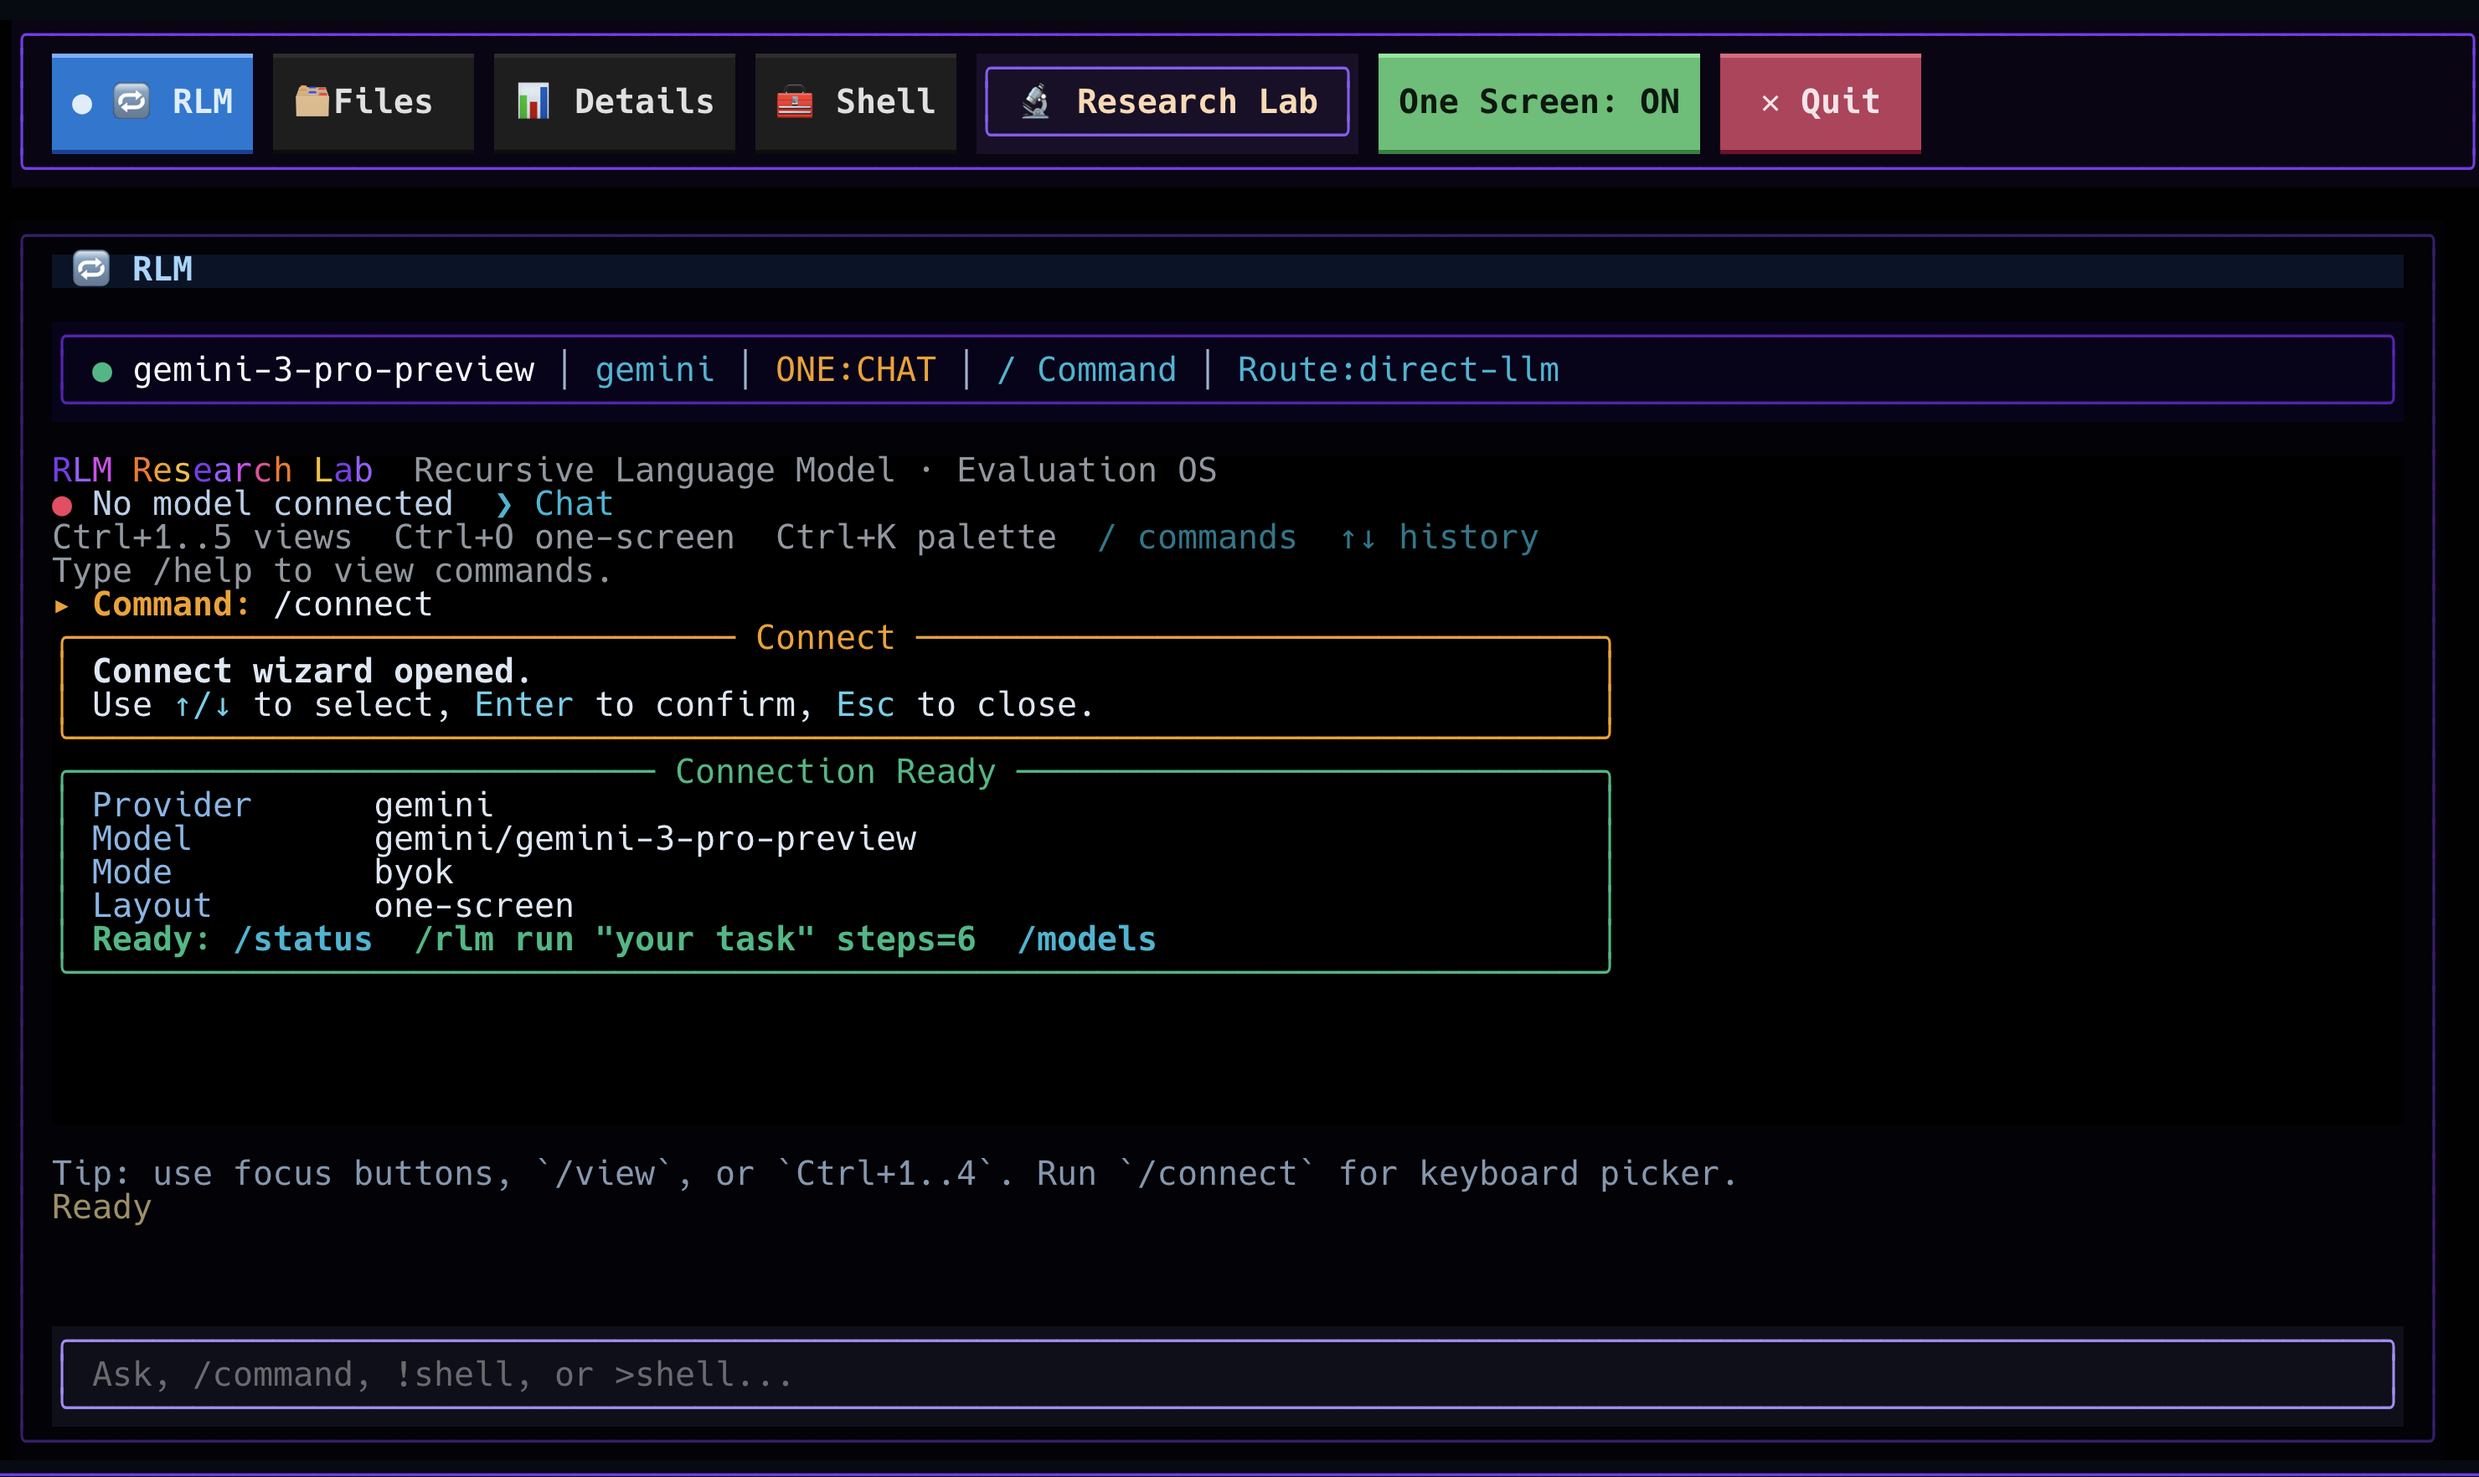
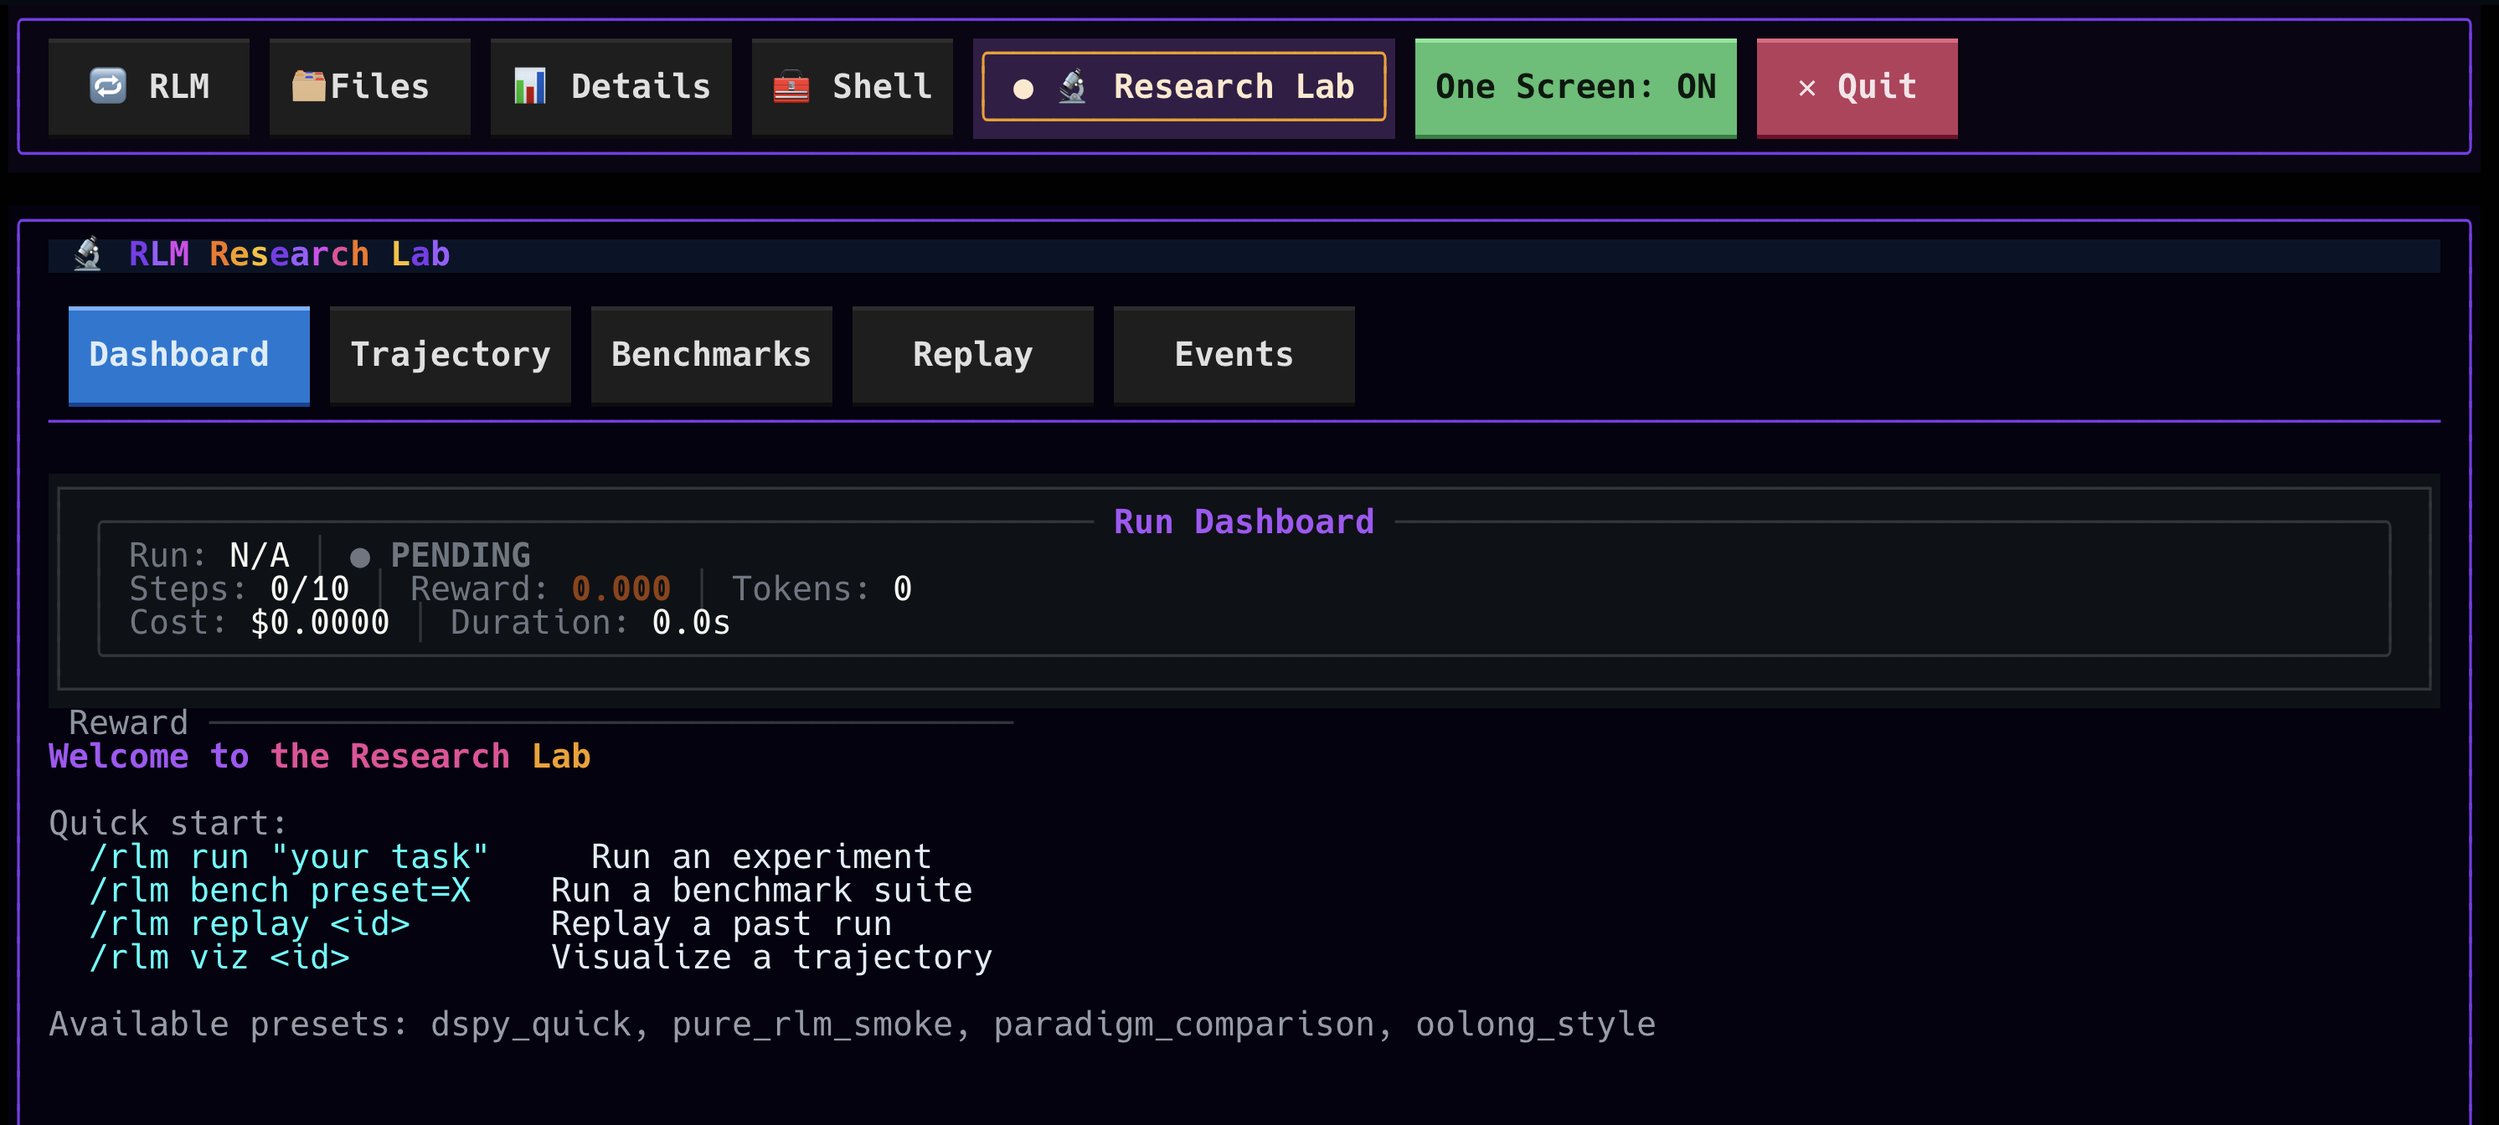
Update the test and hero image

diff --git a/rlm_code/ui/persistent_shell.py b/rlm_code/ui/persistent_shell.py
@@ -69,7 +69,7 @@ class PersistentShell:
         shell_base = Path(self.shell).name
         if shell_base == "zsh":
             rc_flags = ["--no-rcs", "--no-globalrcs"]
-        elif shell_base in ("bash", "sh"):
+        elif shell_base == "bash":
             rc_flags = ["--norc", "--noprofile"]
         else:
             rc_flags = []
@@ -114,10 +114,21 @@ class PersistentShell:
         wrapped = f'{command}\nprintf "{marker}:%s\\n" $?\n'
 
         with self._write_lock:
-            if self._proc.stdin is None:
-                raise RuntimeError("Shell stdin is unavailable.")
-            self._proc.stdin.write(wrapped)
-            self._proc.stdin.flush()
+            if self._proc.stdin is None or self._proc.poll() is not None:
+                return ShellResult(
+                    command=command,
+                    output="Shell process is not running.\n",
+                    exit_code=127,
+                )
+            try:
+                self._proc.stdin.write(wrapped)
+                self._proc.stdin.flush()
+            except (BrokenPipeError, OSError):
+                return ShellResult(
+                    command=command,
+                    output="Shell process pipe is closed.\n",
+                    exit_code=127,
+                )
 
         lines: list[str] = []
         exit_code = 1

diff --git a/docs/index.md b/docs/index.md
@@ -97,6 +97,14 @@ Risk assessment with **40+ rules**, 6 approval modes, and full audit logging to 
 
 ---
 
+## 🖼 RLM Research Lab
+
+<p align="center">
+  <img src="https://github.com/SuperagenticAI/rlm-code/raw/main/assets/rlm-lab.png" alt="RLM Research Lab" style="max-width: 100%; border-radius: 12px;">
+</p>
+
+---
+
 ## 🚀 Quick Start
 
 <div class="rlm-quickstart" markdown>
